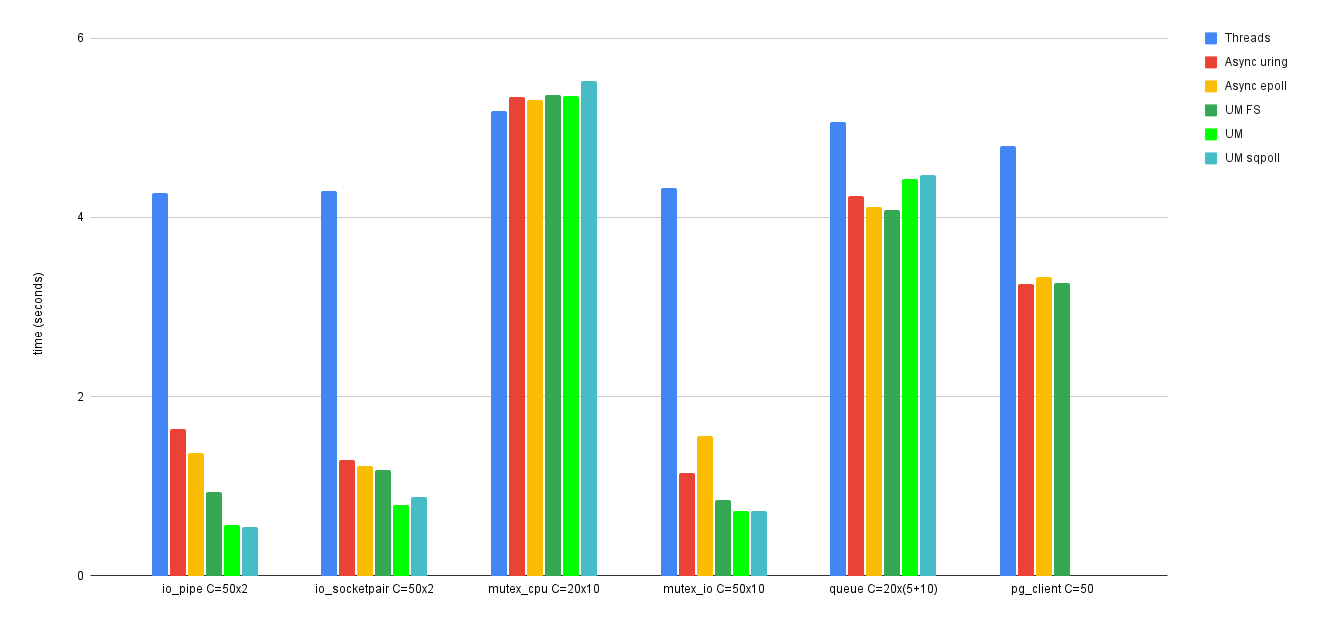
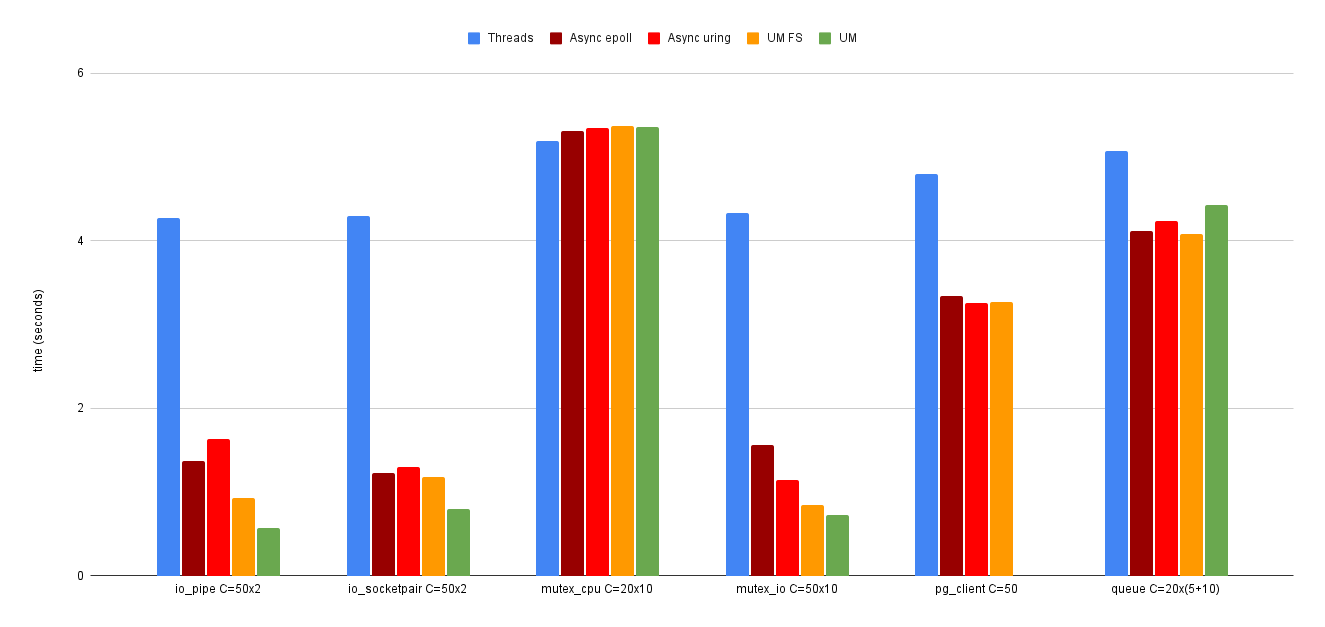
Update benchmark results

diff --git a/benchmark/common.rb b/benchmark/common.rb
@@ -118,6 +118,8 @@ class UMBenchmark
     fds = []
     do_um(machine, fibers, fds)
     machine.await_fibers(fibers)
+    puts "UM:"
+    p machine.metrics
     fds.each { machine.close(it) }
   end
 
@@ -128,6 +130,8 @@ class UMBenchmark
     do_um(machine, fibers, fds)
     machine.await_fibers(fibers)
     fds.each { machine.close_async(it) }
+    puts "UM sqpoll:"
+    p machine.metrics
     machine.snooze
   end
 end

diff --git a/benchmark/README.md b/benchmark/README.md
@@ -21,12 +21,9 @@ implementations:
 
 - `UM`: fiber-based concurrency using the UringMachine low-level API.
 
-- `UM sqpoll`: UringMachine low-level API with [submission queue
-  polling](https://unixism.net/loti/tutorial/sq_poll.html).
-
 <img src="./chart.png">
 
-## Observations:
+## Observations
 
 - We see the stark difference between thread-based and fiber-based concurrency.
   For I/O-bound workloads, there's really no contest - and that's exactly why
@@ -38,15 +35,23 @@ implementations:
   C-extension.
 
 - The UringMachine low-level API is faster to use in most cases, and its
-  performance advantage grows with the level of concurrency.
-
-- SQ polling provides a performance advantage in high-concurrency scenarios,
-  depending on the context. It remains to be seen how it affects performance in
-  real-world situations.
+  performance advantage grows with the level of concurrency. Interestingly, when
+  performing CPU-bound work, it seems slightly slightly slower. This should be
+  investigated.
 
 - The [pg](https://github.com/ged/ruby-pg) gem supports the use of fiber
   schedulers, and there too we see a marked performance advantage to using
   fibers instead of threads.
+
+According to these benchmarks, for I/O-bound scenarios the different fiber-based
+solutions are faster than threads by the following factors:
+
+implementation|average factor
+---------------------
+Async epoll|x2.36
+Async uring|x2.42
+UM FS|x2.85
+UM|x6.20
 
 ## 1. I/O - Pipe
 
@@ -61,7 +66,6 @@ Async epoll  1.118937   0.254803   1.373740 (  1.374298)
 Async uring  1.363248   0.270063   1.633311 (  1.633696)
 UM FS        0.746332   0.183006   0.929338 (  0.929619)
 UM           0.237816   0.328352   0.566168 (  0.566265)
-UM sqpoll    0.091668   0.672238   0.763906 (  0.543311)
 ```
 
 ## 2. I/O - Socketpair
@@ -77,7 +81,6 @@ Async epoll  0.381400   0.846445   1.227845 (  1.227983)
 Async uring  0.472526   0.821467   1.293993 (  1.294166)
 UM FS        0.443023   0.734334   1.177357 (  1.177576)
 UM           0.116995   0.675997   0.792992 (  0.793183)
-UM sqpoll    0.100190   1.005174   1.105364 (  0.878040)
 ```
 
 ## 3. Mutex - CPU-bound
@@ -92,7 +95,6 @@ Async epoll  5.309793   0.000949   5.310742 (  5.311217)
 Async uring  5.341404   0.004860   5.346264 (  5.346963)
 UM FS        5.363719   0.001976   5.365695 (  5.366254)
 UM           5.351073   0.005986   5.357059 (  5.357602)
-UM sqpoll    5.516859   5.507814  11.024673 (  5.526788)
 ```
 
 ## 4. Mutex - I/O-bound
@@ -108,7 +110,6 @@ Async epoll  0.810375   0.744084   1.554459 (  1.554726)
 Async uring  0.854985   1.129260   1.984245 (  1.140749)
 UM FS        0.686329   0.872376   1.558705 (  0.845214)
 UM           0.250370   1.323227   1.573597 (  0.720928)
-UM sqpoll    0.350281   1.968795   2.319076 (  0.724318)
 ```
 
 ## 5. Postgres client
@@ -135,5 +136,4 @@ Async epoll  4.107208   0.006519   4.113727 (  4.114227)
 Async uring  4.206283   0.028974   4.235257 (  4.235705)
 UM FS        4.082394   0.001719   4.084113 (  4.084522)
 UM           4.099893   0.323569   4.423462 (  4.424089)
-UM sqpoll    4.126438   4.799612   8.926050 (  4.471530)
 ```

diff --git a/grant-2025/tasks.md b/grant-2025/tasks.md
@@ -152,7 +152,7 @@
           - When finally idle, calls `Process.warmup`
           - Starts replacing sibling workers with forked workers
         see also: https://www.youtube.com/watch?v=kAW5O2dkSU8
-  - [ ] Each worker is single-threaded (except for auxiliary threads)
+  - [ ] Each worker is single-threaded (except for worker threads)
   - [ ] Rack 3.0-compatible
         see: https://github.com/socketry/protocol-rack
   - [ ] Rails integration (Railtie)
